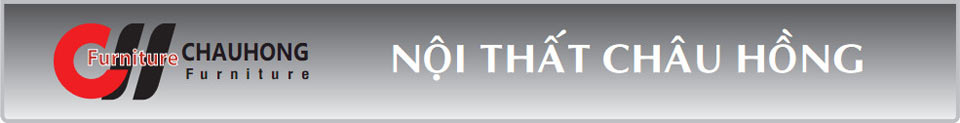
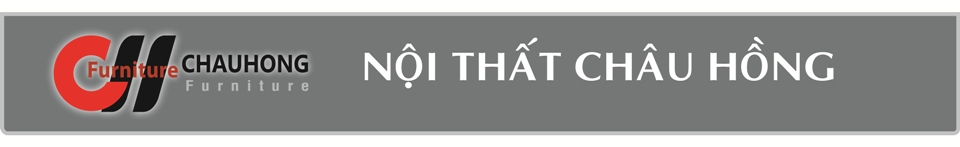
updates

diff --git a/branches/noithat/wp-content/themes/bamboodev/style.css b/branches/noithat/wp-content/themes/bamboodev/style.css
@@ -5,12 +5,12 @@ body { color: rgb(51, 51, 51); font: 13px/18px Arial,Tahoma,Geneva,sans-serif; }
 background-image: url("images/banner.jpg");
 background-repeat: no-repeat;
 float: left;
-height: 150px;
+height: 160px;
 position: relative;
 width: 100%;
 }
 #header #slogan {
-bottom: 5px;
+bottom: 1px;
 font-size: 13px;
 font-style: italic;
 left: 0px;
@@ -21,27 +21,27 @@ position: absolute;
 width: 960px;
 }
 #header #navigation {
-font-size: 13px;
+font-size: 14px;
 font-style: italic;
 position: absolute;
 right: 10px;
-top: 95px;
+top: 103px;
 }
 #header #navigation a{
-color: #56585A;
+color: #ffffff;
 }
 #header #navigation .menu{
 color: #56585A;
 display: block;
 float: left;
-width: 70px;
+width: 72px;
 }
 
 #header #navigation a:hover{
 font-weight: bold;
 margin: 0px;
 font-size: 14px;
-color: #D28216;
+color: #FFFF7F;
 }
 
 #main { display: inline-block; margin-left: 0px; padding-bottom: 10px; width: 960px; }
@@ -71,9 +71,9 @@ width: 100%;
 }
 .small_box_container h3 { background-color: rgb(221, 221, 221); border-left: 1px solid rgb(202, 202, 202); border-right: 1px solid rgb(202, 202, 202); margin: 0px; padding: 0px; }
 .small_box_container div.content { 
-background-color: #DDDDDD;
-border-left: 1px solid #CACACA;
-border-right: 1px solid #CACACA;
+background-color: #E0E1E2;
+border-left: 1px solid #B4B6B9;
+border-right: 1px solid #B4B6B9;
 display: block;
 float: left;
 padding-top: 5px;
@@ -104,6 +104,7 @@ font-style: italic;
 margin-top: 10px;
 padding: 5px;
 text-align: left;
+padding-left: 15px;
 }
 #center h1 {
 font-size: 15px;

diff --git a/branches/noithat/wp-content/themes/bamboodev/page-index.php b/branches/noithat/wp-content/themes/bamboodev/page-index.php
@@ -18,7 +18,7 @@ $pagenum = isset($_GET['pagenum'])?$_GET['pagenum']:1;
 <?php if(function_exists('wp_content_slider')) { wp_content_slider(); } ?>
 <div style="float: left; width: 100%; margin-top: 5px;">
 	<div id="center">
-		<h3>Nội Thất Văn Phòng</h3>
+		<h3 style="background-image: url('<?php echo get_template_directory_uri(); ?>/images/NTVP.jpg'); color: transparent;">Nội Thất Văn Phòng</h3>
 		<?php
 		
 		//$posts = query_posts( array('post_type' => 'product', 'orderby' => 'created', 'order' => 'DESC','posts_per_page' => 30,'paged' => 1));
